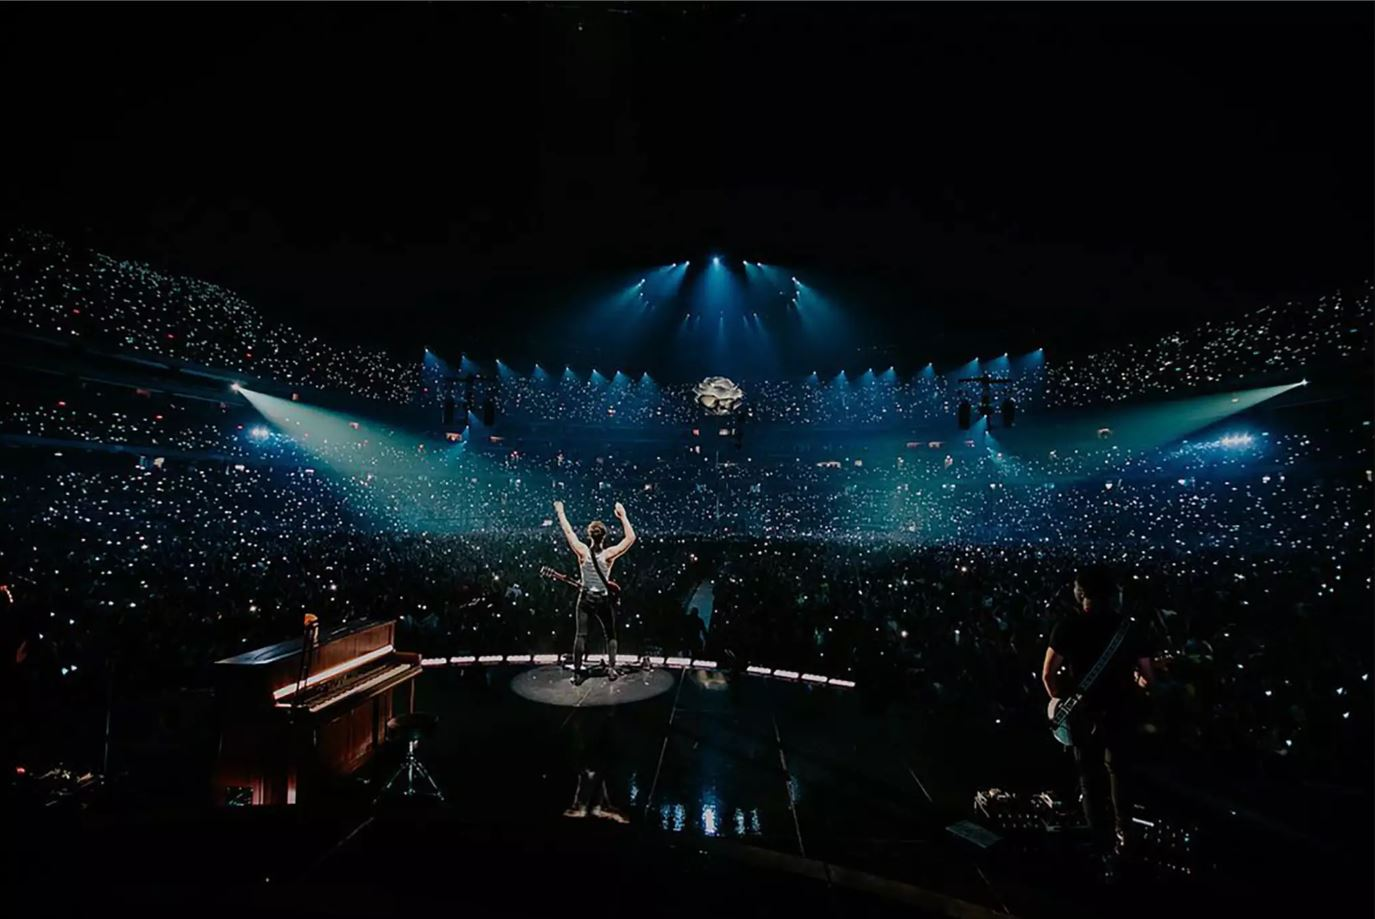
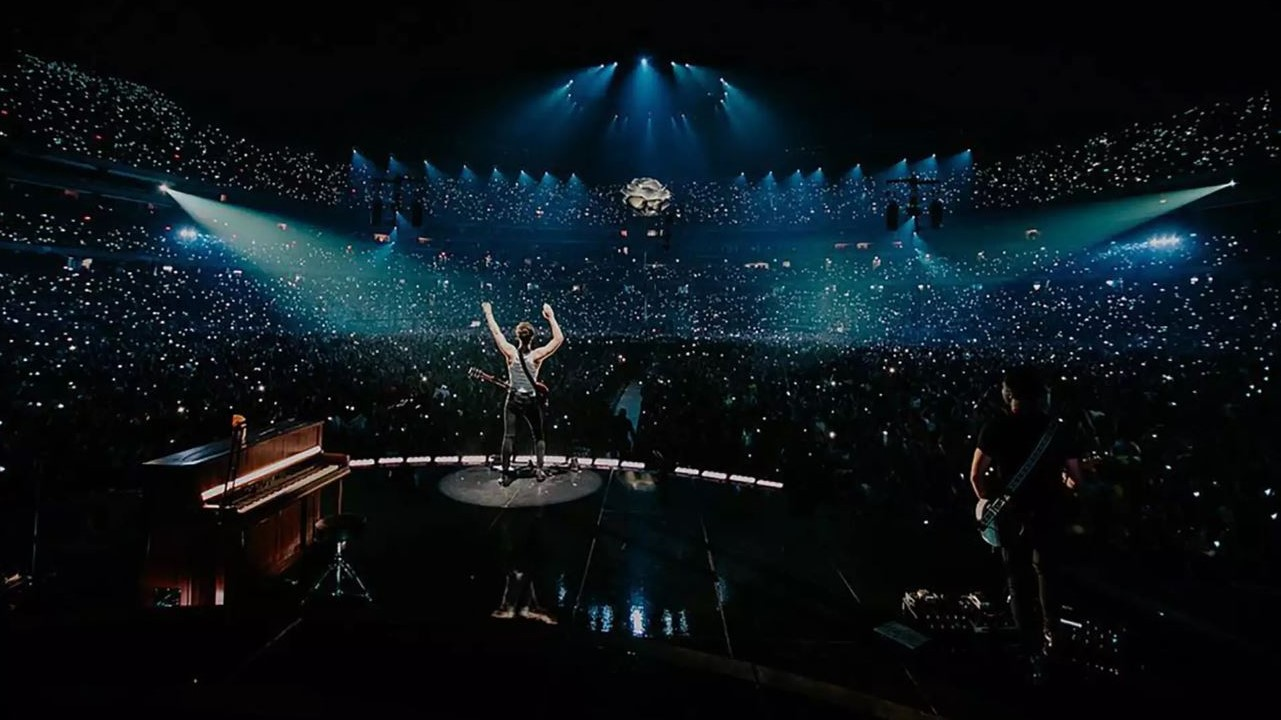
Add hero images

diff --git a/src/pages/HomePage/HomePage.scss b/src/pages/HomePage/HomePage.scss
@@ -1,1 +1,46 @@
 @use '../../styles/partials/global.scss' as *;
+
+.main {
+    background-color: $background-grey;
+    color: $text-grey;
+    position: relative;
+}
+
+.hero {
+    &__container {
+        height: 80vh;
+        position: relative;
+    }
+
+    &__concert {
+        background-image: url(../../assets/images/concert2.JPG);
+        background-position: center;
+        background-size: cover;
+        width: 100%;
+        height: 27vh;
+        position: absolute;
+        top: 0;
+        z-index: 2;
+    }
+
+    &__sports {
+        background-image: url(../../assets/images/raptors.png);
+        background-position: bottom;
+        background-size: cover;
+        width: 100%;
+        height: 33vh;
+        position: absolute;
+        top: 20vh;
+        z-index: 1;
+    }
+
+    &__theatre {
+        background-image: url(../../assets/images/theatre.jpg);
+        background-position: bottom;
+        background-size: cover;
+        width: 100%;
+        height: 33vh;
+        position: absolute;
+        top: 48vh;
+    }
+}

diff --git a/src/components/Header/Header.js b/src/components/Header/Header.js
@@ -1,12 +1,14 @@
 import './Header.scss';
 import { Link } from 'react-router-dom';
-import logoWhite from '../../assets/logo/white_transparent.svg';
+import logoGrey from '../../assets/logo/grey_transparent.svg';
 
 function Header() {
     return (
         <>
         <header className='header'>
-            <img src={logoWhite} className='logo__white' alt='logo in white'/>
+            <Link to="/" >
+                <img src={logoGrey} className='logo__grey' alt='logo in grey'/>
+            </Link>
         </header>
         </>
     )

diff --git a/src/pages/HomePage/HomePage.js b/src/pages/HomePage/HomePage.js
@@ -3,7 +3,12 @@ import { Link } from 'react-router-dom';
 
 function HomePage() {
     return (
-        <main>
+        <main class='main'>
+            <section className='hero__container'> 
+                <div className='hero__concert'></div>
+                <div className='hero__sports'></div>
+                <div className='hero__theatre'></div>
+            </section>
             <h1>Home Page Placeholder</h1>
         </main>
     )

diff --git a/src/components/Header/Header.scss b/src/components/Header/Header.scss
@@ -1,14 +1,14 @@
 @use '../../styles/partials/global.scss' as *;
 
 .header {
-    background-color: $logo-blue;
+    background-color: $background-blue;
     padding: 2rem 1rem;
     display: flex;
     justify-content: center;
 }
 
 .logo {
-    &__white {
+    &__grey {
         width: 100%;
     }
 }

diff --git a/src/styles/partials/variables.scss b/src/styles/partials/variables.scss
@@ -1,4 +1,6 @@
 $tablet-breakpoint: 768px;
 $desktop-breakpoint: 1280px;
 
-$logo-blue: #002F66;
+$background-blue: #002F66;
+$background-grey: #333333;
+$text-grey: #EEEEEE;
